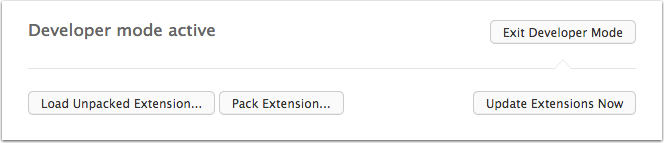
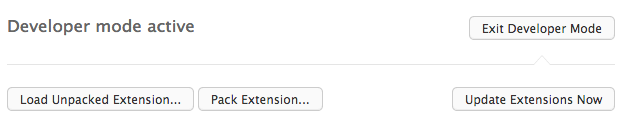
image fixes in tutorial article

Changed region(s): [[0.0, 0.0, 1.0, 1.0]]

diff --git a/css/custom.css b/css/custom.css
@@ -4,6 +4,9 @@
 h2 {
 	font-size: 1.7em;
 }
+img {
+	margin-bottom: 1em;
+}
 
 /* Hidden subtitle anchor fix; issue caused by navbar-fixed-top */
 :not(li)>h2, h3, h4 {

diff --git a/tut_testing.md b/tut_testing.md
@@ -9,11 +9,11 @@ Testing and debugging is an important part of the development process. Let's tak
 ## Developer Mode
 The first thing to do is to enable developer mode. You can do it by going to the *opera:extensions* page and then clicking on '*Developer Mode*'. 
 
-![DeveloperMode1](img/developermode1.png)
+<img src="img/developermode1.png" class="img-polaroid" title="developer mode inactive">
 
 This will enable developer mode which will give a bunch of options to play with. At the top level, you will notice the options *Load Unpacked Extension*, *Pack Extension*, and *Update Extensions Now* as seen below.
 
-![DeveloperMode1](img/developermode-up.png)
+<img src="img/developermode-up.png" class="img-polaroid" title="developer mode active">
 
 ## Loading an unpacked extension
 
@@ -21,7 +21,7 @@ You do not need to create an extension package before you test it. You can start
 
 Doing this will create an entry for that extension in the page, like so:
 
-![developermode3](img/developermode3.png)
+<img src="img/developermode3.png" class="img-polaroid" title="unpacked extension loaded">
 
 There are few things to note here. Apart from the usual *Disable*, *Options* and *Permissions* buttons on the left, you also now have a *Reload* button on the right. Whenever you make a change in your extension, you can instantly see the results by clicking the *Reload* button. This will reload the extension with the updated code. This is one of the most important things to know when developing extensions, and you will need this a lot! 
 
@@ -33,7 +33,7 @@ Below where it states the ID, it mentions the directory where the extension resi
 
 Clicking on that will open the Developer Tools for Opera, and will give you all the resources to inspect elements within it, just like you have for normal web pages. 
 
-![developermode4](img/developermode4.png)
+<img src="img/developermode4.png" class="img-polaroid" title="debugging with web inspector">
 
 If your extension has a popup, and you want to inspect it, then all you need to do is to click on the button to open the popup (as a user might normaly do) and then right-click in that popup and select *Inspect Element*. 
 
